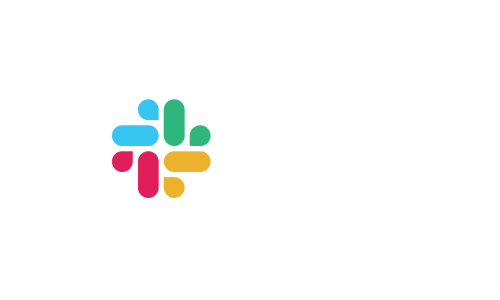
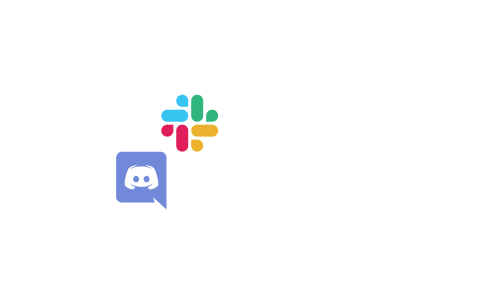
new discord button

Changed region(s): [[0.21, 0.3, 0.45, 0.69]]

diff --git a/src/components/Container.js b/src/components/Container.js
@@ -1,8 +1,9 @@
-import React from "react";
+import React, {useState} from "react";
 import headerImg from "../headerImg.png";
 import successImg from "../successImg.png";
 import {Button} from "@material-ui/core";
 import slack from "../slack.png";
+import discord from "../discord.png"
 import web from "../Dribbble_white.png";
 import mail from "../Mail_white.png";
 import git from "../Github_white.png";
@@ -11,12 +12,14 @@ import { useHistory } from "react-router-dom";
 export default function Container({isRedirect}) {
     const history = useHistory()
 
+    const [discordPressed, setDiscordPressed] = useState(false)
+
     const bottomData = () => {
         if (isRedirect) {
             return (
                 <>
                     <p>
-                        Success! CatMe is installed to your workspace<br/>
+                        Success! CatMe is installed to the workspace you authorized<br/>
                         Type the <code>/catme</code> command to get started
                     </p>
                     <Button
@@ -30,21 +33,58 @@ export default function Container({isRedirect}) {
                     </Button>
                 </>
             )
+        } else if (discordPressed) {
+            return (
+                <>
+                    <p>
+                        Woo Hoo! If you authorized CatMe for a Discord server<br/>
+                        Type the <code>!catme</code> command to get started
+                    </p>
+                    <Button
+                        style={{backgroundColor: "#FFFFFF", color: "#000000"}}
+                        onClick={() => window.open("discord://", "_parent")}
+                        startIcon={<img src={discord} style={{height: 24, width: 24}} alt="logo" />}
+                        variant="contained"
+                        color="primary"
+                        component="span">
+                        Open
+                    </Button>
+                </>
+            )
         } else {
             return (
                 <>
                     <p>
-                        Add the CatMe bot to your slack today to get random puns and pics
+                        Add the CatMe bot to your Discord or Slack to get random puns and pics
                     </p>
-                    <Button
-                        style={{backgroundColor: "#FFFFFF", color: "#000000"}}
-                        onClick={() => window.open(`https://slack.com/oauth/v2/authorize?client_id=${process.env.REACT_APP_SLACK_CLIENT}&scope=chat:write,commands,links:write&user_scope=`)}
-                        startIcon={<img src={slack} style={{height: 24, width: 24}} alt="logo" />}
-                        variant="contained"
-                        color="primary"
-                        component="span">
-                        Add to slack
-                    </Button>
+                    <div className="addButtonContainer">
+                        <div className="addButtonMargin">
+                            <Button
+                                style={{backgroundColor: "#FFFFFF", color: "#000000"}}
+                                onClick={() => {
+                                    setDiscordPressed(true)
+                                    window.open(`https://discord.com/api/oauth2/authorize?client_id=${process.env.REACT_APP_DISCORD_CLIENT}&permissions=51200&scope=bot`)
+                                }}
+                                startIcon={<img src={discord} style={{height: 24, width: 24}} alt="logo" />}
+                                variant="contained"
+                                color="primary"
+                                component="span">
+                                Add to Discord
+                            </Button>
+                        </div>
+                        <div className="addButtonMargin">
+                            <Button
+                                style={{backgroundColor: "#FFFFFF", color: "#000000"}}
+                                onClick={() => window.open(`https://slack.com/oauth/v2/authorize?client_id=${process.env.REACT_APP_SLACK_CLIENT}&scope=chat:write,commands,links:write&user_scope=`)}
+                                startIcon={<img src={slack} style={{height: 24, width: 24}} alt="logo" />}
+                                variant="contained"
+                                color="primary"
+                                component="span">
+                                Add to slack
+                            </Button>
+                        </div>
+                    </div>
+
                 </>
             )
         }

diff --git a/src/components/DiscordBot.js b/src/components/DiscordBot.js
@@ -1,0 +1,83 @@
+const Discord = require('discord.js');
+
+async function getCatData() {
+    // get cat data from thecatapi
+    let catFetchData = await fetch("https://api.thecatapi.com/v1/images/search");
+    // json the data
+    let catData = await catFetchData.json()
+    // return or empty image
+    return catData.length? catData[0].url : "https://whelp-something-broke.s3-us-west-2.amazonaws.com/typical-cat.png"
+}
+
+const terribleCatPun = () => {
+    let puns = [
+        "Stay Pawsitive 😸!",
+        "You’ve got to be kitten me",
+        "I’m just kitten around.",
+        "I think we should get meow-rried someday.",
+        "That’s just claw-ful.",
+        "You’re a fur-midable opponent.",
+        "I’m so fur-tunate.",
+        "Let me tell you a tail.",
+        "That’s a paw-sibility.",
+        "My cat is my best fur-end.",
+        "That’s hiss-terical.",
+        "He’ll go down in hiss-tory.",
+        "You’ve got to be kitten me.",
+        "Paw-don me.",
+        "You look fur-miliar.",
+        "That’s paw-some.",
+        "Don’t fur-get to buy more catnip.",
+        "I’ll love my cat fur-ever.",
+        "That was a cat–astrophe.",
+        "My cat is radi-claw.",
+        "Dogs are in-furior to cats.",
+        "I’m feline sad.",
+        "You’ve got purr-sonality.",
+        "Look at that meowntain.",
+        "My cat is totally litter-ate.",
+        "Whisker me away.",
+        "I’m a glamourpuss.",
+        "You’re so purr-suasive.",
+        "My favorite color is purr-ple.",
+        "Don’t be a sourpuss.",
+        "Like my paw-jamas?",
+        "Better call in claw-enforcement.",
+        "I’ll have a meow-tini.",
+        "I’m feline good.",
+        "I need to take a paws.",
+        "How claw-some is that?",
+        "Can I paw-lease have that?",
+        "I’ve got cattitude.",
+        "Take meowt for lunch.",
+        "I love my cat the meowst.",
+        "I’ve done that be-fur.",
+        "My cat is super cathletic.",
+        "Never, efur do that again.",
+        "Purr-haps we can cuddle later.",
+        "My cat is so purr-ty.",
+        "I love your purr-se.",
+        "My cat wants a Furr-ari.",
+        "I’ve got my thinking cat on.",
+        "Wait a meow-ment.",
+    ]
+    return puns[Math.floor(Math.random() * puns.length)]
+}
+
+const client = new Discord.Client();
+
+export const initBot = () => {
+    console.log('set up')
+    client.login('xxxxx-token-here');
+
+    client.on('ready', () => {
+        console.log(`Logged in as ${client.user.tag}!`);
+    });
+
+    client.on('message', msg => {
+        if (msg.content === 'ping') {
+            msg.reply('Pong!');
+        }
+    });
+}
+

diff --git a/src/App.js b/src/App.js
@@ -5,7 +5,6 @@ import Container from "./components/Container";
 import Contact from "./components/Contact";
 import Privacy from "./components/Privacy";
 
-
 const slackOauthCall = () => {
   const queryString = window.location.search;
   let urlParams = new URLSearchParams(queryString);
@@ -18,12 +17,17 @@ const slackOauthCall = () => {
 
 function App() {
     const [slackAuth, setSlackAuth] = useState(false)
+    const [bot, setBot] = useState(true)
 
     useEffect(() => {
         if (window.location.href.includes('redirect') && !slackAuth) {
-        setSlackAuth(true)
-        slackOauthCall()
+            setSlackAuth(true)
+            slackOauthCall()
         }
+        // if (bot) {
+        //     setBot(false)
+        //     initBot()
+        // }
     }, [slackAuth])
 
     return (

diff --git a/src/App.css b/src/App.css
@@ -50,6 +50,14 @@
   flex-direction: row;
 }
 
+
+.addButtonContainer {
+  width: 35%;
+  justify-content: space-around;
+  display: flex;
+  flex-direction: row;
+}
+
 .version{
   position: absolute;
   bottom: 10px;
@@ -58,8 +66,11 @@
 }
 
 @media all and (max-width: 800px) {
-  .appImg {width: 50%}
+  .appImg {width: 80%}
+  .addButtonContainer { flex-direction: column; width: 50%;}
+  .addButtonMargin {margin-bottom: 20px}
   /*#img2 {display: block;}*/
+
 }
 
 p {
